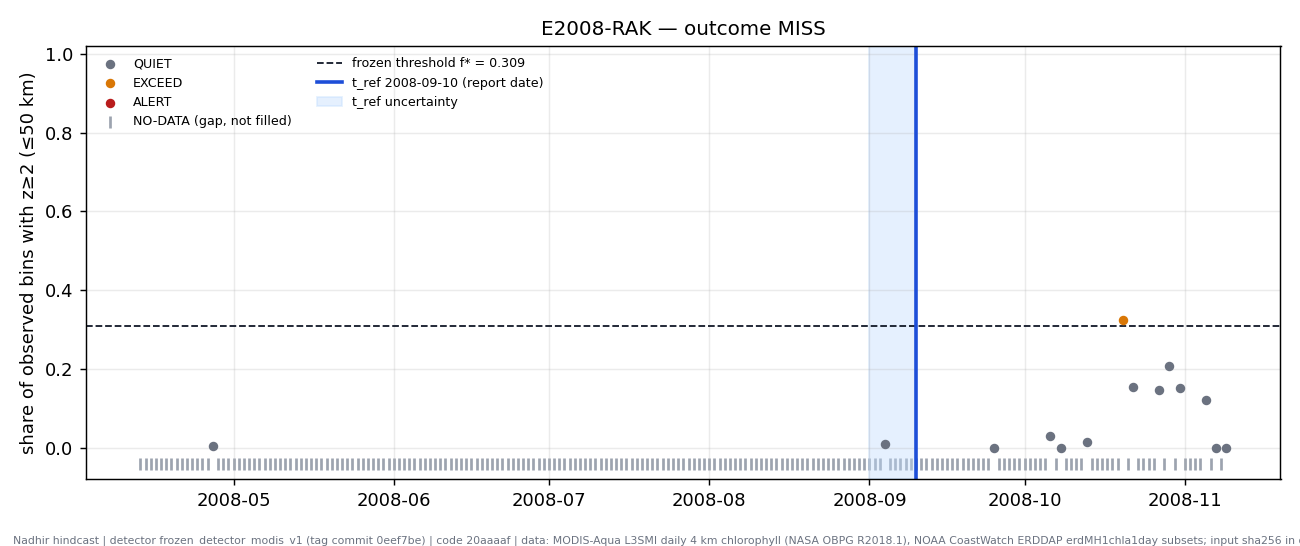
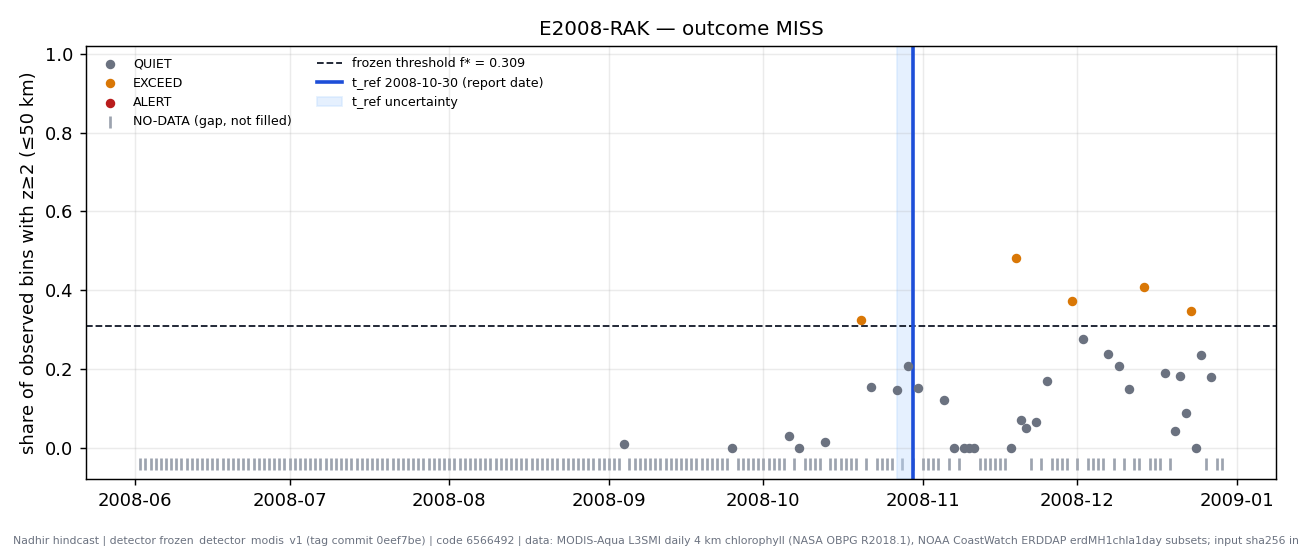
Re-score E2008-RAK with frozen MODIS detector: MISS at 50 km, detected at 100 km
Regenerated via make evaluate-modis/report-modis and evaluate/report.
OLCI results unchanged. Post-hoc note labelled as not a detection claim.

Claude-Session: https://claude.ai/code/session_018ixFkyPrbcfsbmuviDyM9r

diff --git a/outputs/frozen_detector_v1/RESULTS.md b/outputs/frozen_detector_v1/RESULTS.md
@@ -4,9 +4,9 @@ _Generated by `python -m nadhir.report`; every number below is read from the CSV
 
 ## Provenance
 
-- Detector frozen at tag `frozen-detector-v1` → commit `723212e`; evaluation code commit `20aaaaf`.
+- Detector frozen at tag `frozen-detector-v1` → commit `723212e`; evaluation code commit `6566492`.
 - Calibration period (thresholds + climatology): 2019-01-01 → 2021-12-31.
-- config/nadhir.yaml sha256 `ba22ab0dc8076dab…`; frozen config sha256 `0738a21f24e8173d…`; events.yaml sha256 `d0f61218d5a69c7e…`.
+- config/nadhir.yaml sha256 `ba22ab0dc8076dab…`; frozen config sha256 `0738a21f24e8173d…`; events.yaml sha256 `b7d1f9204ed57cad…`.
 - Input bin tables (content sha256 of decompressed CSV): `olci_bins_2018.csv.gz` `64cedc891558…`, `olci_bins_2019.csv.gz` `61304ab27df0…`, `olci_bins_2020.csv.gz` `66d0199945da…`, `olci_bins_2021.csv.gz` `75a4d324224e…`, `olci_bins_2022.csv.gz` `473b5b5055fd…`, `olci_bins_2023.csv.gz` `d856eefe5e79…`
 - Source files (SHA-256 per file): `data/derived/olci_objects_2018.csv`, `data/derived/olci_objects_2019.csv`, `data/derived/olci_objects_2020.csv`, `data/derived/olci_objects_2021.csv`, `data/derived/olci_objects_2022.csv`, `data/derived/olci_objects_2023.csv`.
 - Data: Sentinel-3 OLCI L2 WFR OC4Me via AWS meeo-s3 mirror.
@@ -17,29 +17,29 @@ _Generated by `python -m nadhir.report`; every number below is read from the CSV
 
 | event | evaluation | outcome | t_ref | first_exceed | first_alert | lead_alert_days | lead_alert_min_days | lead_first_exceed_days | lead_max_days | obs_days_in_lookback | days_in_lookback | date_precision | evidence_status |
 |---|---|---|---|---|---|---|---|---|---|---|---|---|---|
-| E2018-KALBA | EVALUATED | DETECTED | 2018-09-15 | 2018-09-03 | 2018-09-07 | 8 | -6 | 12 | 15 | 33 | 121 | day-of-report (upper bound) | UNVERIFIED |
-| E2018-BARKA | EVALUATED | MISS | 2018-02-25 | — | — | — | — | — | — | 20 | 56 | month | UNVERIFIED |
-| E2023-BARKA | EVALUATED | MISS | 2023-07-24 | — | — | — | — | — | — | 66 | 121 | day-of-report (upper bound) | UNVERIFIED |
+| E2018-KALBA | EVALUATED | DETECTED | 2018-09-15 | 2018-09-03 | 2018-09-07 | 8 | -6 | 12 | 15 | 33 | 121 | day-of-report (upper bound) | VERIFIED-SECONDARY (WAM via Gulf News, 15 Sep 2018); S-KT-2018 / S-AB-2018 UNVERIFIED |
+| E2018-BARKA | EVALUATED | MISS | 2018-02-25 | — | — | — | — | — | — | 20 | 56 | month | VERIFIED-SECONDARY (operator disclosure 'starting in February 2018' + 25 Feb 2018 committee report); coordinates still ESTIMATED |
+| E2023-BARKA | EVALUATED | MISS | 2023-07-24 | — | — | — | — | — | — | 66 | 121 | day-of-report (upper bound) | VERIFIED-SECONDARY (Muscat Daily quoting Nama Water Services statement of 24 Jul 2023) |
 | E2023-ALRAHA | LIMITATION-TEST | MISS | 2023-04-15 | — | — | — | — | — | — | 68 | 121 | month | VERIFIED-PRIMARY for place/month/species (EAD report, read in full by HAB-hyperspectral 2026-09-16; not re-fetched here) |
 
 Charts: `event_E2018-KALBA_r50.png`, `event_E2018-BARKA_r50.png`, `event_E2023-BARKA_r50.png`, `event_E2023-ALRAHA_r50.png`
 
 ## 2. Sensitivity to watch radius (frozen at the same time; not tuned on events)
 
-| event | radius_km | outcome | lead_alert_days | lead_alert_min_days | lead_max_days | f_threshold |
-|---|---|---|---|---|---|---|
-| E2018-BARKA | 25 | MISS | — | — | — | 0.250 |
-| E2018-BARKA | 50 | MISS | — | — | — | 0.214 |
-| E2018-BARKA | 100 | MISS | — | — | — | 0.187 |
-| E2018-KALBA | 25 | DETECTED | 8 | -6 | 15 | 0.273 |
-| E2018-KALBA | 50 | DETECTED | 8 | -6 | 15 | 0.227 |
-| E2018-KALBA | 100 | DETECTED | 11 | -3 | 15 | 0.187 |
-| E2023-ALRAHA | 25 | MISS | — | — | — | 0.142 |
-| E2023-ALRAHA | 50 | MISS | — | — | — | 0.155 |
-| E2023-ALRAHA | 100 | MISS | — | — | — | 0.195 |
-| E2023-BARKA | 25 | MISS | — | — | — | 0.250 |
-| E2023-BARKA | 50 | MISS | — | — | — | 0.214 |
-| E2023-BARKA | 100 | MISS | — | — | — | 0.187 |
+| event | radius_km | outcome | obs_days_in_lookback | lead_alert_days | lead_alert_min_days | lead_max_days | f_threshold |
+|---|---|---|---|---|---|---|---|
+| E2018-BARKA | 25 | MISS | 19 | — | — | — | 0.250 |
+| E2018-BARKA | 50 | MISS | 20 | — | — | — | 0.214 |
+| E2018-BARKA | 100 | MISS | 21 | — | — | — | 0.187 |
+| E2018-KALBA | 25 | DETECTED | 33 | 8 | -6 | 15 | 0.273 |
+| E2018-KALBA | 50 | DETECTED | 33 | 8 | -6 | 15 | 0.227 |
+| E2018-KALBA | 100 | DETECTED | 35 | 11 | -3 | 15 | 0.187 |
+| E2023-ALRAHA | 25 | MISS | 67 | — | — | — | 0.142 |
+| E2023-ALRAHA | 50 | MISS | 68 | — | — | — | 0.155 |
+| E2023-ALRAHA | 100 | MISS | 71 | — | — | — | 0.195 |
+| E2023-BARKA | 25 | MISS | 65 | — | — | — | 0.250 |
+| E2023-BARKA | 50 | MISS | 66 | — | — | — | 0.214 |
+| E2023-BARKA | 100 | MISS | 73 | — | — | — | 0.187 |
 
 ## 3. False alarms in periods with no documented disruption
 

diff --git a/outputs/frozen_detector_modis_v1/RESULTS.md b/outputs/frozen_detector_modis_v1/RESULTS.md
@@ -4,9 +4,9 @@ _Generated by `python -m nadhir.report`; every number below is read from the CSV
 
 ## Provenance
 
-- Detector frozen at tag `frozen-detector-modis-v1` → commit `0eef7be`; evaluation code commit `20aaaaf`.
+- Detector frozen at tag `frozen-detector-modis-v1` → commit `0eef7be`; evaluation code commit `6566492`.
 - Calibration period (thresholds + climatology): 2003-01-01 → 2007-12-31.
-- config/nadhir.yaml sha256 `ba22ab0dc8076dab…`; frozen config sha256 `5bca6f4cde794f51…`; events.yaml sha256 `d0f61218d5a69c7e…`.
+- config/nadhir.yaml sha256 `ba22ab0dc8076dab…`; frozen config sha256 `5bca6f4cde794f51…`; events.yaml sha256 `b7d1f9204ed57cad…`.
 - Input bin tables (content sha256 of decompressed CSV): `modis_bins_2003.csv.gz` `568222c1376a…`, `modis_bins_2004.csv.gz` `fc53991a9eaa…`, `modis_bins_2005.csv.gz` `17a1c48ee200…`, `modis_bins_2006.csv.gz` `5b5da0c96384…`, `modis_bins_2007.csv.gz` `a8e25faeb530…`, `modis_bins_2008.csv.gz` `dbbba466ec42…`, `modis_bins_2009.csv.gz` `18f0139bce54…`, `modis_bins_2010.csv.gz` `ec47ba2a76d6…`, `modis_bins_2011.csv.gz` `3866d773630a…`, `modis_bins_2012.csv.gz` `9f0008165487…`, `modis_bins_2013.csv.gz` `aebddde70b85…`, `modis_bins_2014.csv.gz` `c3f5429967ea…`
 - Source files (SHA-256 per file): `data/derived/modis_objects.csv`.
 - Data: MODIS-Aqua L3SMI daily 4 km chlorophyll (NASA OBPG R2018.1), NOAA CoastWatch ERDDAP erdMH1chla1day subsets.
@@ -15,10 +15,10 @@ _Generated by `python -m nadhir.report`; every number below is read from the CSV
 
 `lead_alert_days` = t_ref − first ALERT day. t_ref is the **public report date** (an upper bound on the true impact onset), so the operational lead time could be shorter by up to `t_ref − t_ref_earliest`: `lead_alert_min_days` is the lead time if impact began at `t_ref_earliest`. `lead_max_days` = t_ref − last QUIET observation before the anomaly: the bloom entered the zone somewhere in that interval (satellite gaps).
 
-| event | evaluation | outcome | t_ref | obs_days_in_lookback | days_in_lookback | date_precision | evidence_status |
-|---|---|---|---|---|---|---|---|
-| E2008-RAK | EVALUATED | MISS | 2008-09-10 | 1 | 121 | month | UNVERIFIED |
-| E2008-DIBBA | EVALUATED | NO-DATA | 2008-08-31 | 0 | 121 | dekad (late August) | UNVERIFIED (date phrase from search summary; paper record itself confirmed via HAB-hyperspectral) |
+| event | evaluation | outcome | t_ref | first_exceed | first_alert | lead_alert_days | lead_alert_min_days | lead_first_exceed_days | lead_max_days | obs_days_in_lookback | days_in_lookback | date_precision | evidence_status |
+|---|---|---|---|---|---|---|---|---|---|---|---|---|---|
+| E2008-RAK | EVALUATED | MISS | 2008-10-30 | — | — | — | — | — | — | 9 | 121 | day (ESTIMATED ±3 d) | VERIFIED-SECONDARY |
+| E2008-DIBBA | EVALUATED | NO-DATA | 2008-08-31 | — | — | — | — | — | — | 0 | 121 | dekad (late August) | UNVERIFIED (date phrase from search summary; paper record itself confirmed via HAB-hyperspectral) |
 
 Charts: `event_E2008-RAK_r50.png`, `event_E2008-DIBBA_r50.png`
 
@@ -29,9 +29,9 @@ Charts: `event_E2008-RAK_r50.png`, `event_E2008-DIBBA_r50.png`
 | E2008-DIBBA | 25 | NO-DATA | 0 | — | — | — | 0.421 |
 | E2008-DIBBA | 50 | NO-DATA | 0 | — | — | — | 0.362 |
 | E2008-DIBBA | 100 | MISS | 4 | — | — | — | 0.295 |
-| E2008-RAK | 25 | MISS | 1 | — | — | — | 0.400 |
-| E2008-RAK | 50 | MISS | 1 | — | — | — | 0.309 |
-| E2008-RAK | 100 | MISS | 4 | — | — | — | 0.251 |
+| E2008-RAK | 25 | MISS | 6 | — | — | — | 0.400 |
+| E2008-RAK | 50 | MISS | 9 | — | — | — | 0.309 |
+| E2008-RAK | 100 | DETECTED | 10 | 8 | 5 | 17 | 0.251 |
 
 ## 3. False alarms in periods with no documented disruption
 

diff --git a/outputs/frozen_detector_modis_v1/POSTHOC_E2008-RAK.md b/outputs/frozen_detector_modis_v1/POSTHOC_E2008-RAK.md
@@ -1,0 +1,27 @@
+# E2008-RAK re-score (2026-09-30) — frozen-detector-modis-v1, no parameter changes
+
+Ground truth corrected under D-016: Al Ghalileh closure **Thu 30 Oct 2008** (day ±3 d; t_ref 2008-10-30,
+t_ref_earliest 2008-10-27), from S-NATIONAL-RAK and S-NATIONAL-REOPEN (VERIFIED-SECONDARY).
+Source of every number below: `event_lead_times.csv` and `zone_daily_r{25,50,100}.csv` in this folder.
+
+## Outcome exactly as the frozen rules produce it
+| Radius | f* (frozen) | Clear days in 121-day lookback (2 Jul–30 Oct) | Exceedances | Alerts | Outcome |
+|---|---|---|---|---|---|
+| **50 km (primary)** | 0.309 | 9 (none before 4 Sep) | 1 (20 Oct) | 0 | **MISS** |
+| 25 km | 0.400 | 6 | 0 before t_ref (one on 31 Oct, after) | 0 | MISS |
+| 100 km (sensitivity) | 0.251 | 10 | 20 Oct | from 22 Oct | DETECTED: 8 d before 30 Oct (5 d vs 27 Oct); bloom entered zone between 13 Oct (last quiet) and 20 Oct |
+
+The headline result is the primary radius: **MISS**. The 100 km detection is a pre-registered sensitivity
+run (frozen with the same commit), reported alongside, not substituted for the primary result.
+
+## POST-HOC OBSERVATION (not a detection claim)
+At 50 km the single exceedance on 20 Oct (anomaly fraction 0.326) was followed by clear days on 22, 27, 29
+and 31 Oct with fractions 0.153, 0.147, 0.207, 0.153: well above the 0.00–0.03 seen on 4 Sep–13 Oct, but
+below the frozen f* = 0.309, so the persistence rule never fired. An elevated, sub-threshold anomaly was
+present in the zone during the 10 days before the closure. This is noted for future detector design only.
+**The detector was not changed because of it, and no lead time is claimed from it.**
+
+## Coverage context (the MODIS summer blind spot)
+Zero clear days at 50 km from 2 Jul to 3 Sep 2008. The first clear day in the lookback is 4 Sep, when S-NATIONAL-RAK
+places the Diba Husn fish kill ("two months earlier" than 2 Nov). July–August coverage is zero in every MODIS year
+2003–2014 (`zone_daily_r50.csv`; the 2008 Dibba lookback has 0 clear days).
